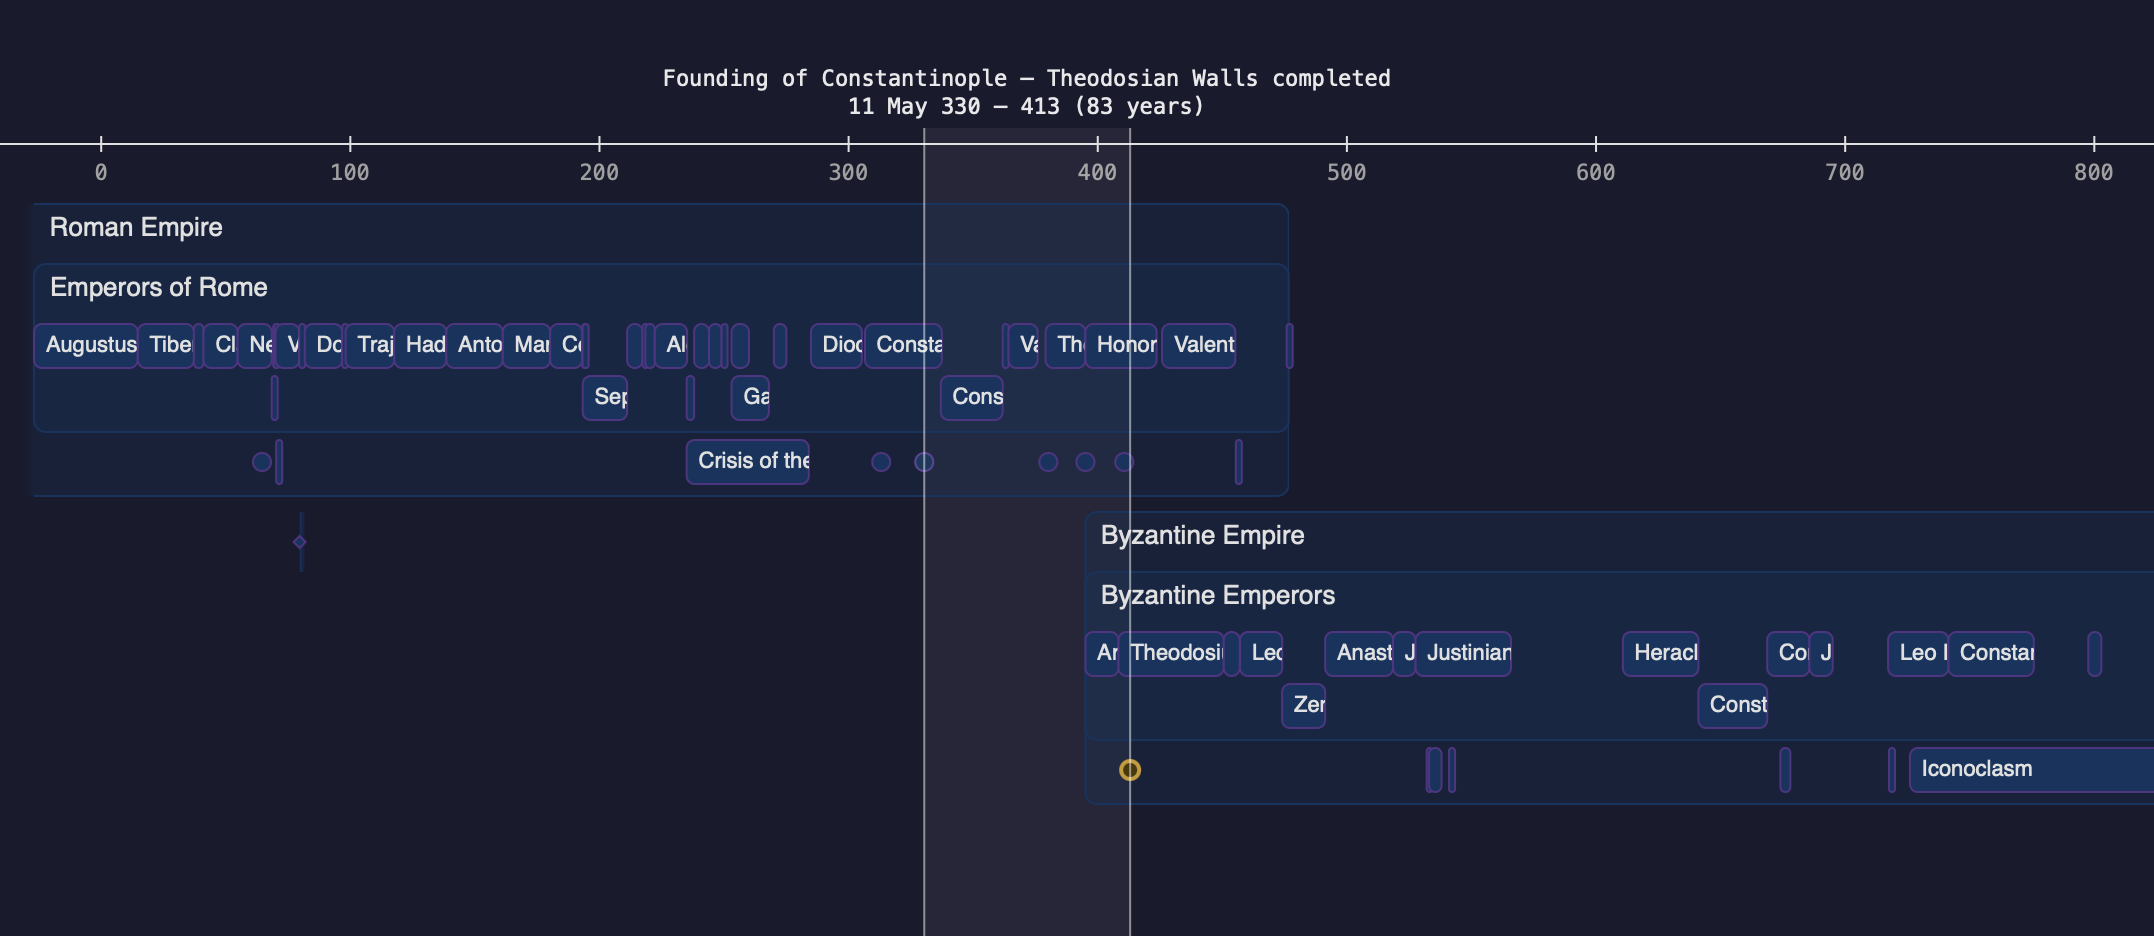
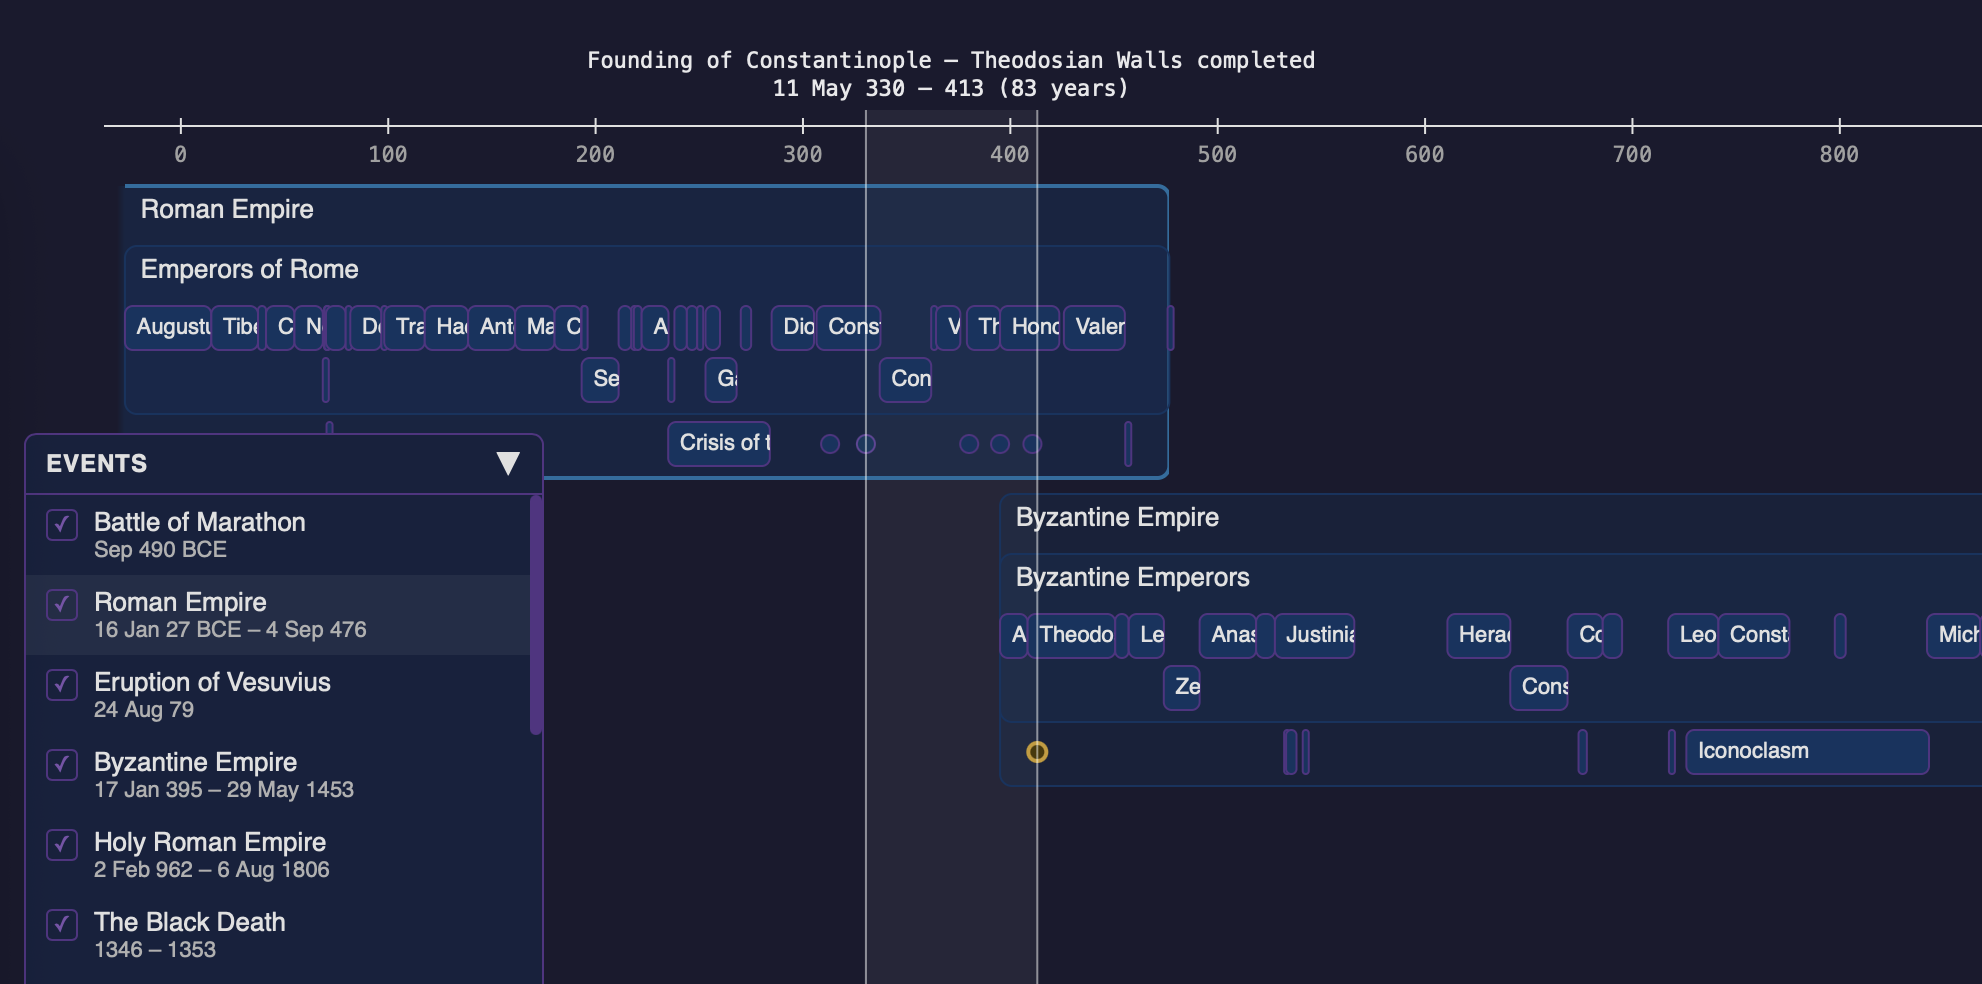
Update readme

Changed region(s): [[0.0, 0.031, 1.0, 0.8985], [0.0308, 0.9295, 0.1539, 0.9915]]

diff --git a/README.md b/README.md
@@ -1,6 +1,6 @@
 # Timeline
 
-Timeline is a tool to visualise historical timeframes and events.
+Timeline is a tool to visualise historical timeframes and events, and their relations. Events can be added and customised for different needs, for example learning history, investigating timeframes, timelines of family tree, etc.
 
 ![Example timeline](example.png)
 
@@ -12,7 +12,7 @@ Current features include
 
 - Zoomable and scrollable timeline
 - Use static file for event data
-- Point events, ranged events, and events with not certain beginnning or end dates
+- Point events, ranged events, and events with no certain beginnning or end dates
 - Ongoing events with no known end date
 - Additional event info shown in a tooltip bubble
 - Nested structure for organising events
